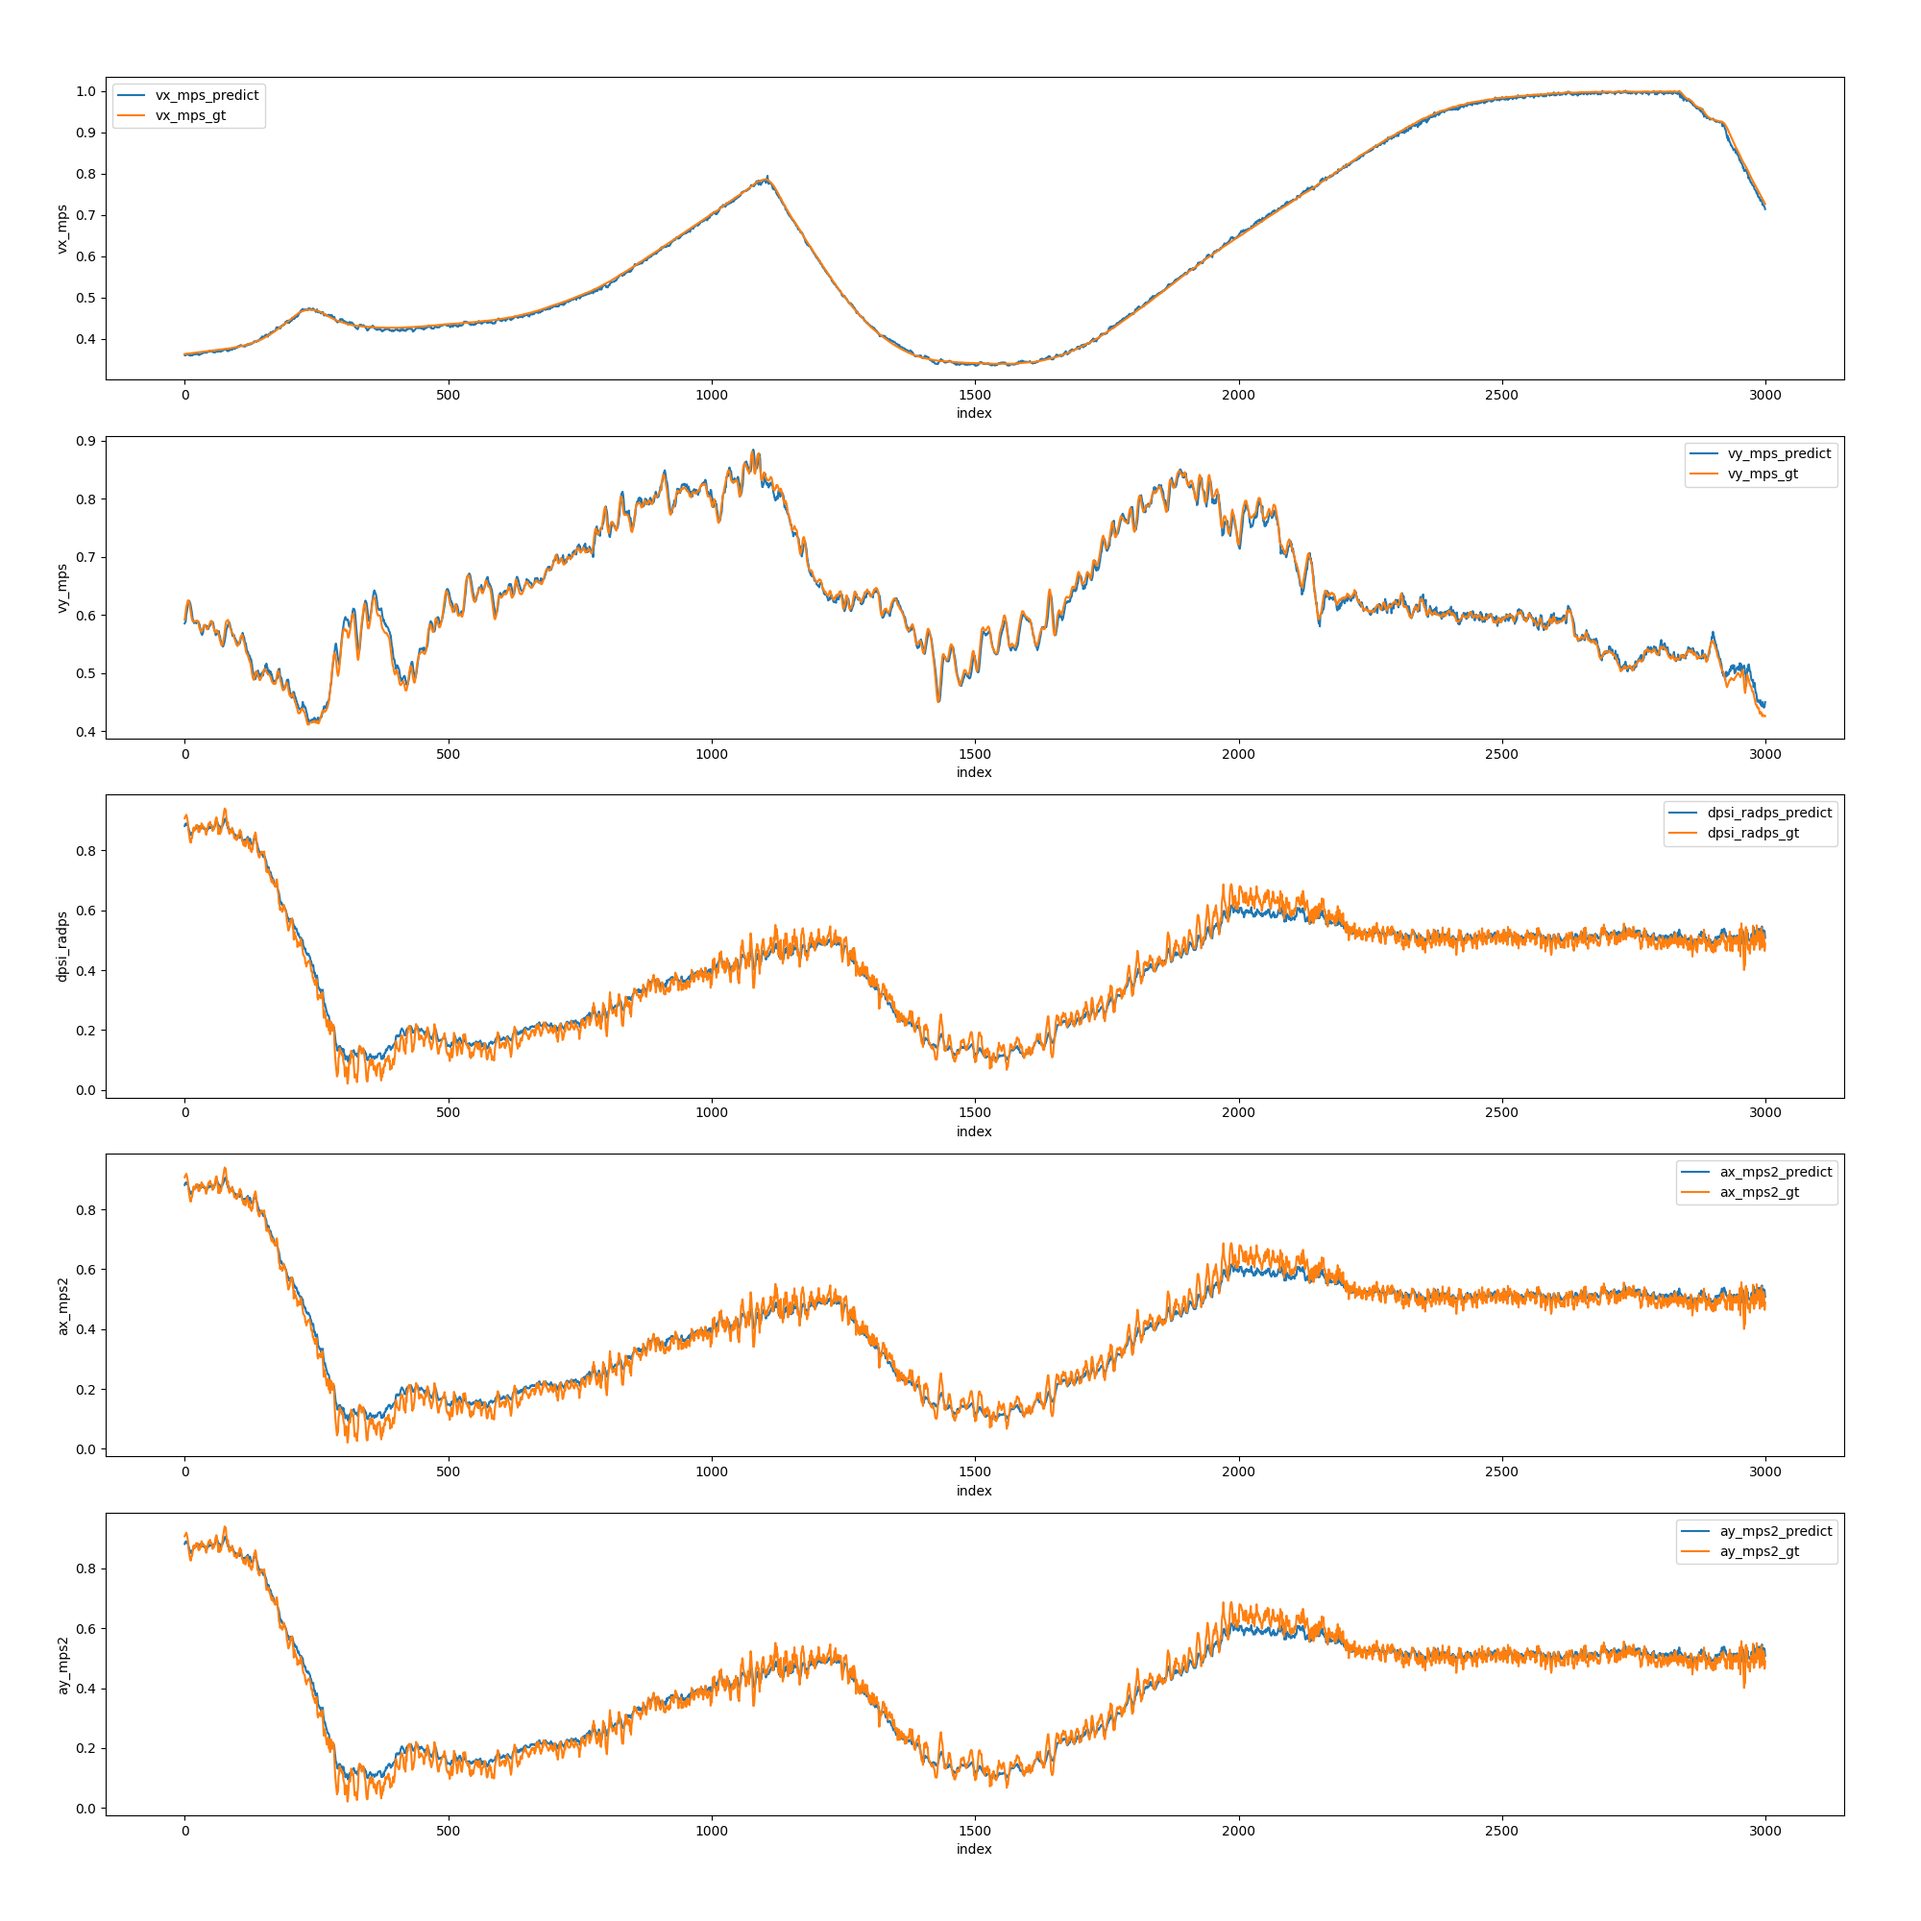
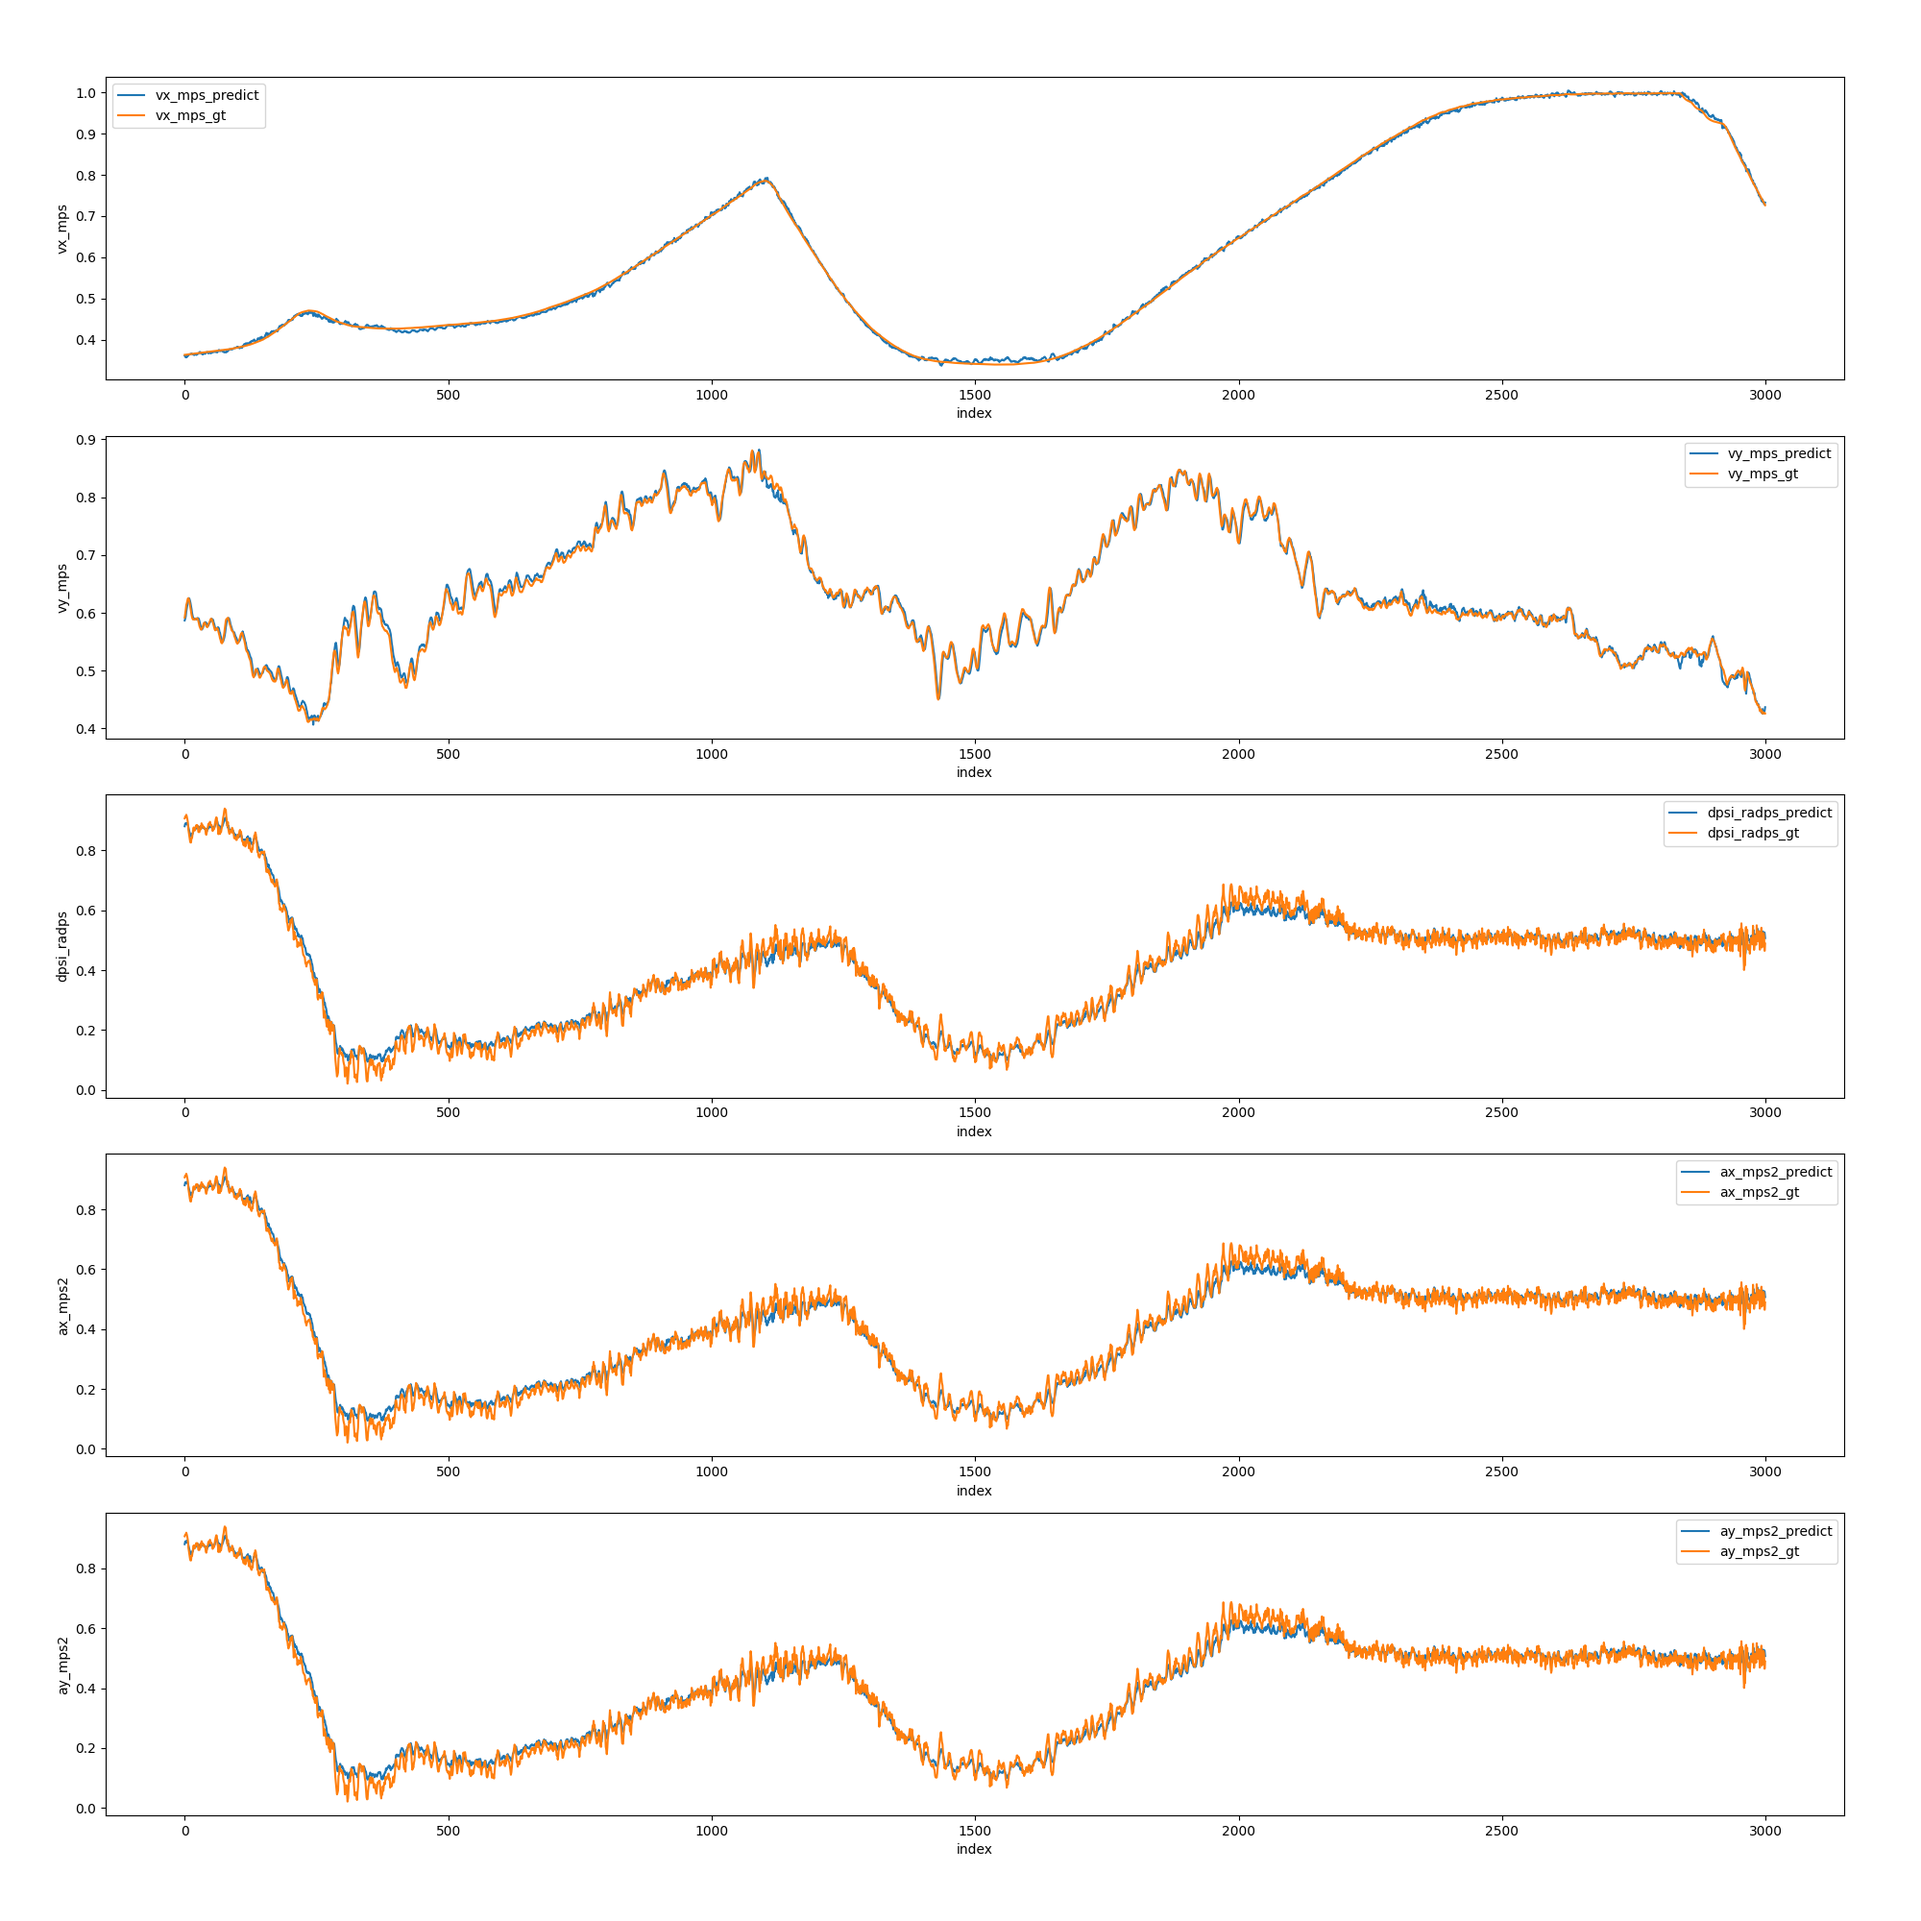
modify training process

diff --git a/nn_vehicle_model.py b/nn_vehicle_model.py
@@ -41,17 +41,16 @@ class VehicleDynamicsModel(nn.Module):
 
 
 class VehicleDynamicsLSTM(nn.Module):
-    def __init__(self, input_size=10, hidden_size=100, output_size=5, num_layers=2):
+    def __init__(self, input_size=10, hidden_size=50, output_size=5):
         super(VehicleDynamicsLSTM, self).__init__()
         self.hidden_size = hidden_size
-        self.num_layers = num_layers
-        self.lstm = nn.LSTM(input_size, hidden_size, num_layers, batch_first=True)
+        self.lstm = nn.LSTM(input_size, hidden_size, batch_first=True)
         self.fc = nn.Linear(hidden_size, output_size)
 
     def forward(self, x):
         # 初始化隐藏状态和细胞状态
-        h0 = torch.zeros(self.num_layers, x.size(0), self.hidden_size).to(x.device)
-        c0 = torch.zeros(self.num_layers, x.size(0), self.hidden_size).to(x.device)
+        h0 = torch.zeros(1, x.size(0), self.hidden_size).to(x.device)
+        c0 = torch.zeros(1, x.size(0), self.hidden_size).to(x.device)
 
         # 前向传播 LSTM
         out, _ = self.lstm(x, (h0, c0))  # out的形状：(batch_size, seq_length, hidden_size)
@@ -64,7 +63,7 @@ class VehicleDynamicsLSTM(nn.Module):
 
 def data_process():
     # 1. 生成训练数据 tstep = 8 ms
-    path = "/home/plusai/Documents/external_projects/NeuralNetwork_for_VehicleDynamicsModeling/inputs/trainingdata/data_to_train_0.csv"
+    path = "/home/plusai/Documents/workspace/NeuralNetwork_for_VehicleDynamicsModeling/inputs/trainingdata/data_to_train_0.csv"
     df = pd.read_csv(path)
     length = len(df)
     input_column = [
@@ -87,7 +86,9 @@ def data_process():
         "ay_mps2",
     ]
     input_data = df.loc[:length - 2, input_column]  # 输入特征
-    output_data = df.loc[1:, output_column]  # 输出特征
+    output_data = df.loc[:, output_column]  # 输出特征
+    output_data = output_data.diff()
+    output_data = output_data.loc[1:]
     input_data = input_data.to_numpy()
     print("input_data shape: {}".format(input_data.shape))
     output_data = output_data.to_numpy()
@@ -100,7 +101,7 @@ def data_process():
     return input_data, output_data
 
 
-def plot(args, predicted_output, test_output_data):
+def plot(args, predicted_output, test_output_data, name="test_model.png"):
     test_length = predicted_output.shape[0]
     x_list = np.arange(test_length)
     fig = plt.figure(figsize=(20, 20))
@@ -142,7 +143,7 @@ def plot(args, predicted_output, test_output_data):
     ax.legend()
 
     if args.savepic:
-        pic_path = os.path.join(args.output, "model/test_model.png")
+        pic_path = os.path.join(args.output, "model", name)
         plt.savefig(pic_path)
     plt.show()
     plt.close()
@@ -173,11 +174,11 @@ def model_evaluation(args):
     print("Mean Squared Error:", loss.item())
 
     test_length = 3000
-    plot_predicted_output = predicted_output_tensor[:test_length]
+    plot_predicted_output = predicted_output_tensor[:test_length]  # why?
     plot_predicted_output = plot_predicted_output.numpy()
     plot_output_data = test_output_tensor[:test_length]
     plot_output_data = plot_output_data.numpy()
-    plot(args, plot_predicted_output, plot_output_data)
+    plot(args, plot_predicted_output, plot_output_data, "evaluation.png")
 
 
 def model_training(args):
@@ -212,11 +213,12 @@ def model_training(args):
 
     # 2. deep learning model
     model = VehicleDynamicsModel().to(device)
+    # model = VehicleDynamicsLSTM().to(device)
     optimizer = optim.Adam(model.parameters(), lr=0.001)
     criterion = nn.MSELoss()
 
     # 3. training process
-    num_epochs = 150
+    num_epochs = 160
 
     print("start to taining model")
     for epoch in tqdm.trange(num_epochs):
@@ -236,10 +238,15 @@ def model_training(args):
             optimizer.step()
             loss_list.append(loss.item())
 
+        loss_mean = np.mean(loss_list)
+        if loss_mean < 1e-4:
+            print('Epoch [{}/{}], Loss: {:.5f}'.format(epoch+1, num_epochs, loss_mean))
+            print("The loss value is reached")
+            break
         if (epoch + 1) % 5 == 0:
             print(
                 "Epoch [{}/{}], Loss: {:.4f}".format(
-                    epoch + 1, num_epochs, np.mean(loss_list)
+                    epoch + 1, num_epochs, loss_mean
                 )
             )
 
@@ -255,6 +262,7 @@ def model_training(args):
     torch.save(checkpoint, save_path)
 
     # 4. test process
+    model = model.eval()
     test_length = 3000
     test_input_data = x_test[:test_length]
     test_output_data = y_test[:test_length]
@@ -262,7 +270,15 @@ def model_training(args):
         predicted_output = model(test_input_data)
         predicted_output = predicted_output.to("cpu").numpy()
     test_output_data = test_output_data.to("cpu").numpy()
-    plot(args, predicted_output, test_output_data)
+    plot(args, predicted_output, test_output_data, "test_data.png")
+
+    train_input_data = x_train[:test_length]
+    train_output_data = y_train[:test_length]
+    with torch.no_grad():
+        predicted_output = model(train_input_data)
+        predicted_output = predicted_output.to("cpu").numpy()
+    train_output_data = train_output_data.to("cpu").numpy()
+    plot(args, predicted_output, train_output_data, "train_data.png")
 
 
 def main(args):
